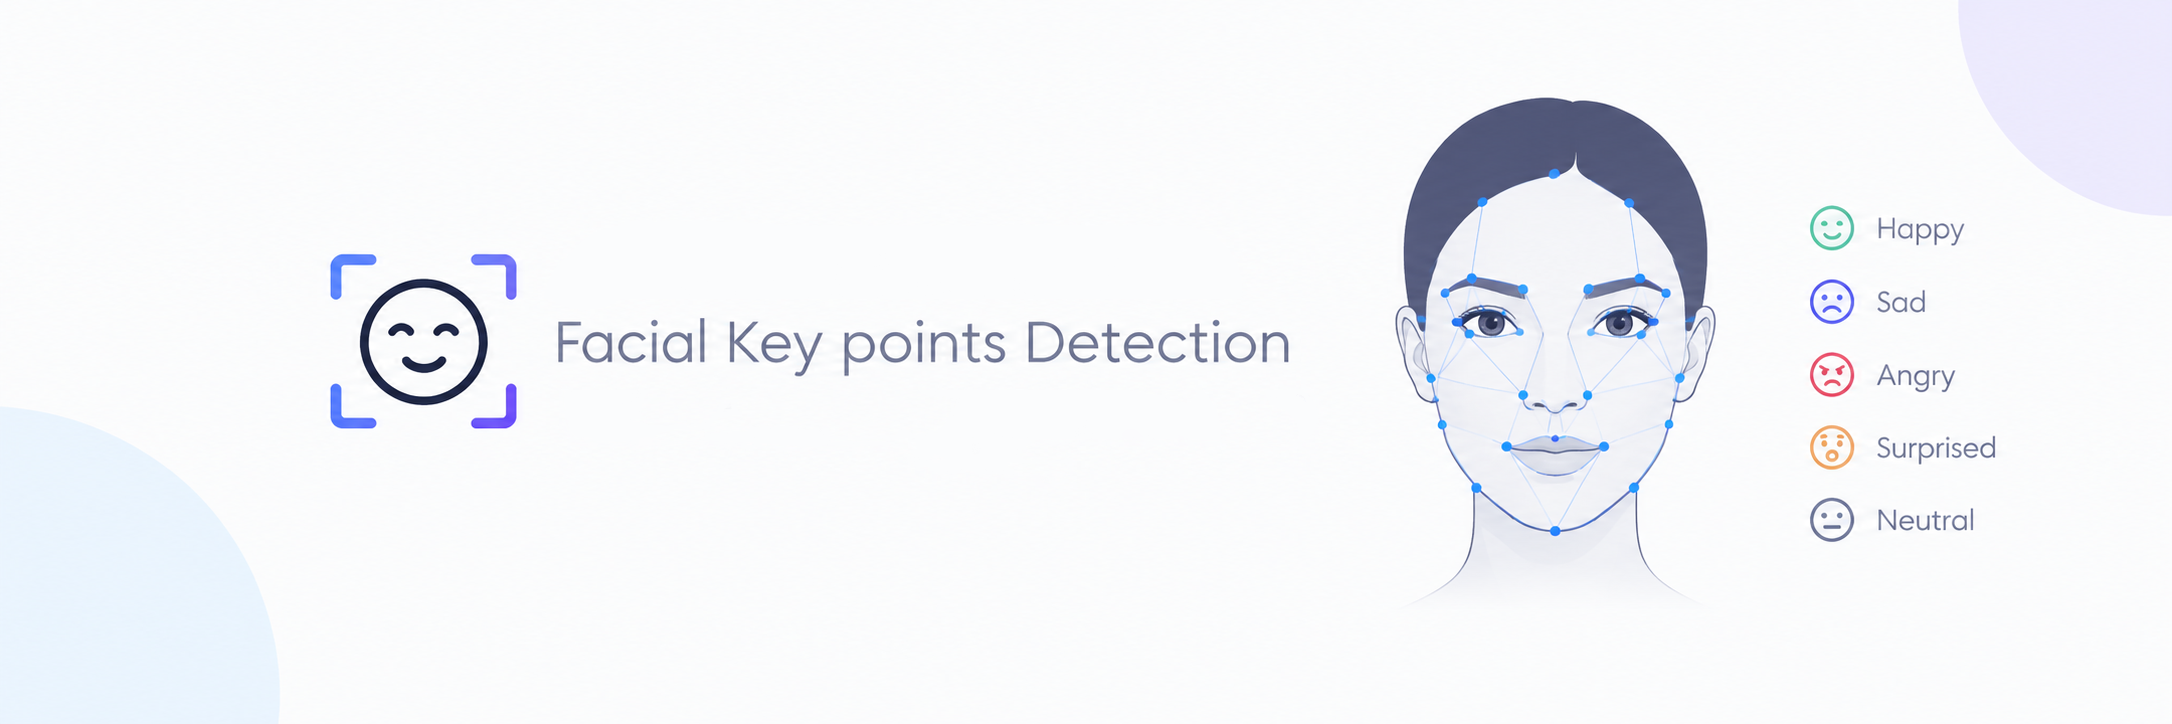
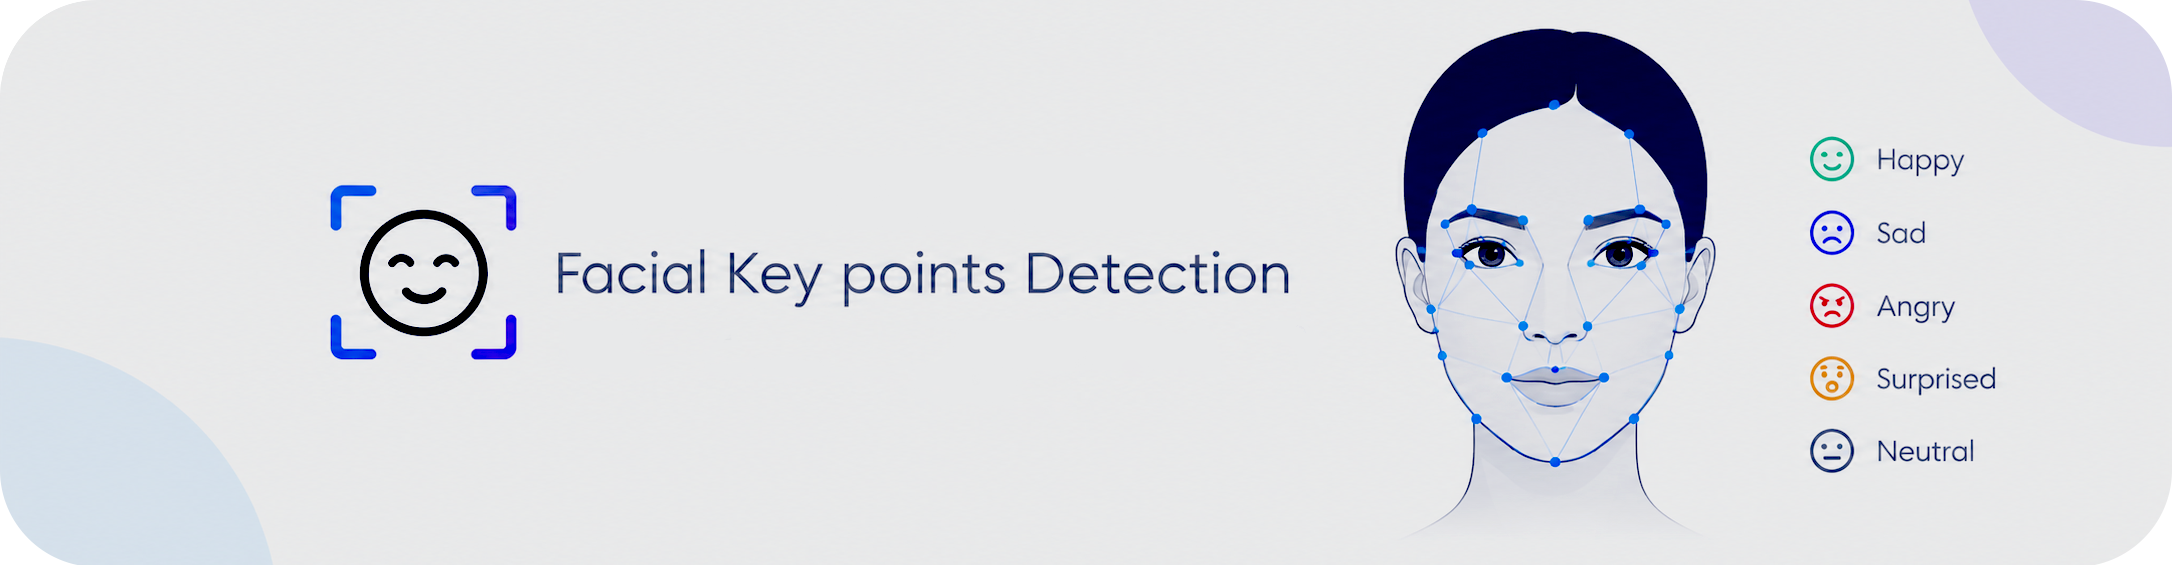
update

Changed region(s): [[0.1542, 0.0301, 0.802, 0.9327], [0.8329, 0.4814, 0.9254, 0.8425], [0.8329, 0.2407, 0.9254, 0.4513]]

diff --git a/README.md b/README.md
@@ -4,11 +4,24 @@
   <img src="assets/banner.png" width="750" alt="banner_image" style="border-radius: 10px;"> 
 </div>
 
+
+<div align="center">
+
 [![Python](https://img.shields.io/badge/Python-3.10%2B-3776AB?logo=python&logoColor=white)](https://www.python.org/)
-[![TensorFlow](https://img.shields.io/badge/TensorFlow-2.x%20%7C%20Keras%203-FF6F00?logo=tensorflow&logoColor=white)](https://tensorflow.org/)
+[![TensorFlow](https://img.shields.io/badge/TensorFlow-2.x-FF6F00?logo=tensorflow&logoColor=white)](https://tensorflow.org/)
+[![Keras](https://img.shields.io/badge/Keras-3-D00000?logo=keras&logoColor=white)](https://keras.io/)
 [![uv](https://img.shields.io/badge/managed%20by-uv-DE5FE9?logo=astral&logoColor=white)](https://github.com/astral-sh/uv)
-[![Jupyter](https://img.shields.io/badge/Jupyter-Notebook-F37626?logo=jupyter&logoColor=white)](https://jupyter.org/)
+[![Jupyter](https://img.shields.io/badge/Jupyter-Notebook-F37626?logo=jupyter&logoColor=white)](KeyFacialPointsDetection.ipynb)
+[![Open In Colab](https://colab.research.google.com/assets/colab-badge.svg)](https://colab.research.google.com/github/mohd-faizy/18P_AI-Facial-Keypoints-Detection/blob/main/KeyFacialPointsDetection.ipynb)
 [![License: MIT](https://img.shields.io/badge/License-MIT-green.svg)](LICENSE)
+
+[![GitHub repo size](https://img.shields.io/github/repo-size/mohd-faizy/18P_AI-Facial-Keypoints-Detection?color=blue&logo=github)](https://github.com/mohd-faizy/18P_AI-Facial-Keypoints-Detection)
+[![GitHub stars](https://img.shields.io/github/stars/mohd-faizy/18P_AI-Facial-Keypoints-Detection?color=yellow&logo=github)](https://github.com/mohd-faizy/18P_AI-Facial-Keypoints-Detection/stargazers)
+[![GitHub forks](https://img.shields.io/github/forks/mohd-faizy/18P_AI-Facial-Keypoints-Detection?color=orange&logo=github)](https://github.com/mohd-faizy/18P_AI-Facial-Keypoints-Detection/network/members)
+[![GitHub last commit](https://img.shields.io/github/last-commit/mohd-faizy/18P_AI-Facial-Keypoints-Detection?logo=git)](https://github.com/mohd-faizy/18P_AI-Facial-Keypoints-Detection/commits/main)
+
+</div>
+
 
 An end-to-end Computer Vision and Deep Learning project that detects **15 facial keypoints (30 coordinates)** from 96×96 grayscale face images using a custom **Deep Residual Neural Network (ResNet)** architecture in TensorFlow / Keras.
 
@@ -65,7 +78,7 @@ The dataset consists of **2,140 face images** with 30 landmark coordinates:
 Some facial landmarks (such as lip points or eyebrow corners) are not visible across all images due to facial occlusions, head poses, or lighting conditions.
 
 <div align="center">
-  <img src="assets/Plots/01_missing_values_analysis.png" width="750" alt="Missing Values Analysis" style="border-radius: 10px;">
+  <img src="assets/plots/01_missing_values_analysis.png" width="750" alt="Missing Values Analysis" style="border-radius: 10px;">
 </div>
 
 <br>
@@ -78,7 +91,7 @@ Some facial landmarks (such as lip points or eyebrow corners) are not visible ac
 Analyzing the coordinate distributions confirms anatomical symmetry between left and right facial features (e.g. eye centers positioned predictably around $x \approx 35$ and $x \approx 65$).
 
 <div align="center">
-  <img src="assets/Plots/02_keypoint_x_distribution.png" width="750" alt="Keypoint X-Coordinates Distribution" style="border-radius: 10px;">
+  <img src="assets/plots/02_keypoint_x_distribution.png" width="750" alt="Keypoint X-Coordinates Distribution" style="border-radius: 10px;">
 </div>
 
 ---
@@ -90,8 +103,8 @@ Each face image is reconstructed from 9,216 pixel values ($96 \times 96$) and ov
 ### Single Sample Landmark Overlay
 
 <div align="center">
-  <img src="assets/Plots/03_sample_face_keypoints.png" width="365" alt="Sample Face with Keypoints" style="border-radius: 10px; margin: 4px;">
-  <img src="assets/Plots/04_face_keypoints_detailed.png" width="365" alt="Detailed Face Keypoints" style="border-radius: 10px; margin: 4px;">
+  <img src="assets/plots/03_sample_face_keypoints.png" width="365" alt="Sample Face with Keypoints" style="border-radius: 10px; margin: 4px;">
+  <img src="assets/plots/04_face_keypoints_detailed.png" width="365" alt="Detailed Face Keypoints" style="border-radius: 10px; margin: 4px;">
 </div>
 
 ---
@@ -100,7 +113,7 @@ Each face image is reconstructed from 9,216 pixel values ($96 \times 96$) and ov
 A sample grid illustrating various facial expressions, lighting variations, and facial shapes present in the dataset:
 
 <div align="center">
-  <img src="assets/Plots/05_sample_faces_grid_16.png" width="750" alt="Sample Faces Grid" style="border-radius: 10px;">
+  <img src="assets/plots/05_sample_faces_grid_16.png" width="750" alt="Sample Faces Grid" style="border-radius: 10px;">
 </div>
 
 ---
@@ -113,7 +126,7 @@ To prevent overfitting and double the effective dataset size, several image tran
 Flipping images horizontally ($y$-axis reflection) requires mirroring all $x$-coordinates ($x_{new} = 96 - x_{orig}$):
 
 <div align="center">
-  <img src="assets/Plots/09_horizontal_flip_comparison.png" width="750" alt="Horizontal Flip Comparison" style="border-radius: 10px;">
+  <img src="assets/plots/09_horizontal_flip_comparison.png" width="750" alt="Horizontal Flip Comparison" style="border-radius: 10px;">
 </div>
 
 ---
@@ -122,7 +135,7 @@ Flipping images horizontally ($y$-axis reflection) requires mirroring all $x$-co
 Random brightness scaling introduces robustness against real-world lighting shifts without altering facial landmark coordinates:
 
 <div align="center">
-  <img src="assets/Plots/10_brightness_augmentation_comparison.png" width="750" alt="Brightness Augmentation Comparison" style="border-radius: 10px;">
+  <img src="assets/plots/10_brightness_augmentation_comparison.png" width="750" alt="Brightness Augmentation Comparison" style="border-radius: 10px;">
 </div>
 
 ---
@@ -131,7 +144,7 @@ Random brightness scaling introduces robustness against real-world lighting shif
 Vertical flipping along the horizontal axis requires adjusting $y$-coordinates ($y_{new} = 96 - y_{orig}$) while keeping $x$-coordinates fixed:
 
 <div align="center">
-  <img src="assets/Plots/11_vertical_flip_comparison.png" width="750" alt="Vertical Flip Comparison" style="border-radius: 10px;">
+  <img src="assets/plots/11_vertical_flip_comparison.png" width="750" alt="Vertical Flip Comparison" style="border-radius: 10px;">
 </div>
 
 ---
@@ -141,7 +154,7 @@ Vertical flipping along the horizontal axis requires adjusting $y$-coordinates (
 The combined original and augmented datasets are normalized to $[0, 1]$ and split into **90% Training** and **10% Testing** sets:
 
 <div align="center">
-  <img src="assets/Plots/12_train_test_split_visualization.png" width="750" alt="Train vs Test Split Visualization" style="border-radius: 10px;">
+  <img src="assets/plots/12_train_test_split_visualization.png" width="750" alt="Train vs Test Split Visualization" style="border-radius: 10px;">
 </div>
 
 <br>
@@ -149,7 +162,7 @@ The combined original and augmented datasets are normalized to $[0, 1]$ and spli
 ### Augmented Dataset Overview (64 Random Samples)
 
 <div align="center">
-  <img src="assets/Plots/13_augmented_data_grid_64.png" width="750" alt="Augmented Samples Grid" style="border-radius: 10px;">
+  <img src="assets/plots/13_augmented_data_grid_64.png" width="750" alt="Augmented Samples Grid" style="border-radius: 10px;">
 </div>
 
 ---
@@ -174,7 +187,7 @@ The architecture is built upon the **ResNet** paradigm, combining:
 The model was compiled with the Adam optimizer (`learning_rate=0.001`) and trained for **100 epochs** using `ModelCheckpoint` saved in the modern `.keras` format.
 
 <div align="center">
-  <img src="assets/Plots/14_training_validation_loss_accuracy.png" width="750" alt="Training and Validation Curves" style="border-radius: 10px;">
+  <img src="assets/plots/14_training_validation_loss_accuracy.png" width="750" alt="Training and Validation Curves" style="border-radius: 10px;">
 </div>
 
 <br>
@@ -189,7 +202,7 @@ The model was compiled with the Adam optimizer (`learning_rate=0.001`) and train
 Predictions on 16 test images demonstrate accurate localization of eye centers, nose tips, and mouth corners:
 
 <div align="center">
-  <img src="assets/Plots/15_test_predictions_grid_16.png" width="750" alt="Test Predictions Grid" style="border-radius: 10px;">
+  <img src="assets/plots/15_test_predictions_grid_16.png" width="750" alt="Test Predictions Grid" style="border-radius: 10px;">
 </div>
 
 ---
@@ -198,7 +211,7 @@ Predictions on 16 test images demonstrate accurate localization of eye centers, 
 A direct overlay comparing **Actual Landmarks (Red)** against **Predicted Landmarks (Green)** on test samples:
 
 <div align="center">
-  <img src="assets/Plots/16_predicted_vs_actual_comparison.png" width="750" alt="Predicted vs Actual Keypoints Comparison" style="border-radius: 10px;">
+  <img src="assets/plots/16_predicted_vs_actual_comparison.png" width="750" alt="Predicted vs Actual Keypoints Comparison" style="border-radius: 10px;">
 </div>
 
 ---
@@ -208,7 +221,7 @@ A direct overlay comparing **Actual Landmarks (Red)** against **Predicted Landma
 Evaluating the Root Mean Squared Error (RMSE) across test samples confirms consistent precision with minimal outlier deviation:
 
 <div align="center">
-  <img src="assets/Plots/17_prediction_error_distribution.png" width="750" alt="Prediction Error Distribution" style="border-radius: 10px;">
+  <img src="assets/plots/17_prediction_error_distribution.png" width="750" alt="Prediction Error Distribution" style="border-radius: 10px;">
 </div>
 
 ---
@@ -218,13 +231,13 @@ Evaluating the Root Mean Squared Error (RMSE) across test samples confirms consi
 | Challenge | Topic | Output Visualization |
 |---|---|---|
 | **#1** | Summary statistics for `right_eye_center_x` | Computed mean ($34.50$), min, and max |
-| **#2** | 64 random faces in an 8×8 grid | [View Plot](assets/Plots/06_faces_grid_64_challenge2.png) |
-| **#3** | Vertical flip augmentation with $y$-inversion | [View Plot](assets/Plots/11_vertical_flip_comparison.png) |
-| **#4** | Test size sensitivity & augmented visualization | [View Plot](assets/Plots/13_augmented_data_grid_64.png) |
+| **#2** | 64 random faces in an 8×8 grid | [View Plot](assets/plots/06_faces_grid_64_challenge2.png) |
+| **#3** | Vertical flip augmentation with $y$-inversion | [View Plot](assets/plots/11_vertical_flip_comparison.png) |
+| **#4** | Test size sensitivity & augmented visualization | [View Plot](assets/plots/13_augmented_data_grid_64.png) |
 | **#5** | Architecture ablation (MaxPooling & Stage 4) | Full model summary with Stage 4 added |
 
 <div align="center">
-  <img src="assets/Plots/06_faces_grid_64_challenge2.png" width="750" alt="64 Random Faces Grid" style="border-radius: 10px;">
+  <img src="assets/plots/06_faces_grid_64_challenge2.png" width="750" alt="64 Random Faces Grid" style="border-radius: 10px;">
 </div>
 
 ---
@@ -235,8 +248,8 @@ This project is optimized for [**uv**](https://github.com/astral-sh/uv), an extr
 
 ### 1. Clone the Repository
 ```bash
-git clone https://github.com/<your-username>/Emotion-AI-Facial-Key-points-Detection.git
-cd "Emotion AI Facial Key points Detection"
+git clone https://github.com/mohd-faizy/18P_AI-Facial-Keypoints-Detection.git
+cd 18P_AI-Facial-Keypoints-Detection
 ```
 
 ### 2. Set Up Virtual Environment with `uv`
@@ -272,6 +285,9 @@ jupyter notebook KeyFacialPointsDetection.ipynb
 ```
 
 > **Running on Google Colab**:
+>
+> [![Open In Colab](https://colab.research.google.com/assets/colab-badge.svg)](https://colab.research.google.com/github/mohd-faizy/18P_AI-Facial-Keypoints-Detection/blob/main/KeyFacialPointsDetection.ipynb)
+>
 > Simply upload `KeyFacialPointsDetection.ipynb` and `KeyFacialPoints.csv` to Google Colab. The notebook dynamically checks and supports Colab file paths (`/content/KeyFacialPoints.csv` and `/content/weights.keras`) automatically.
 
 
